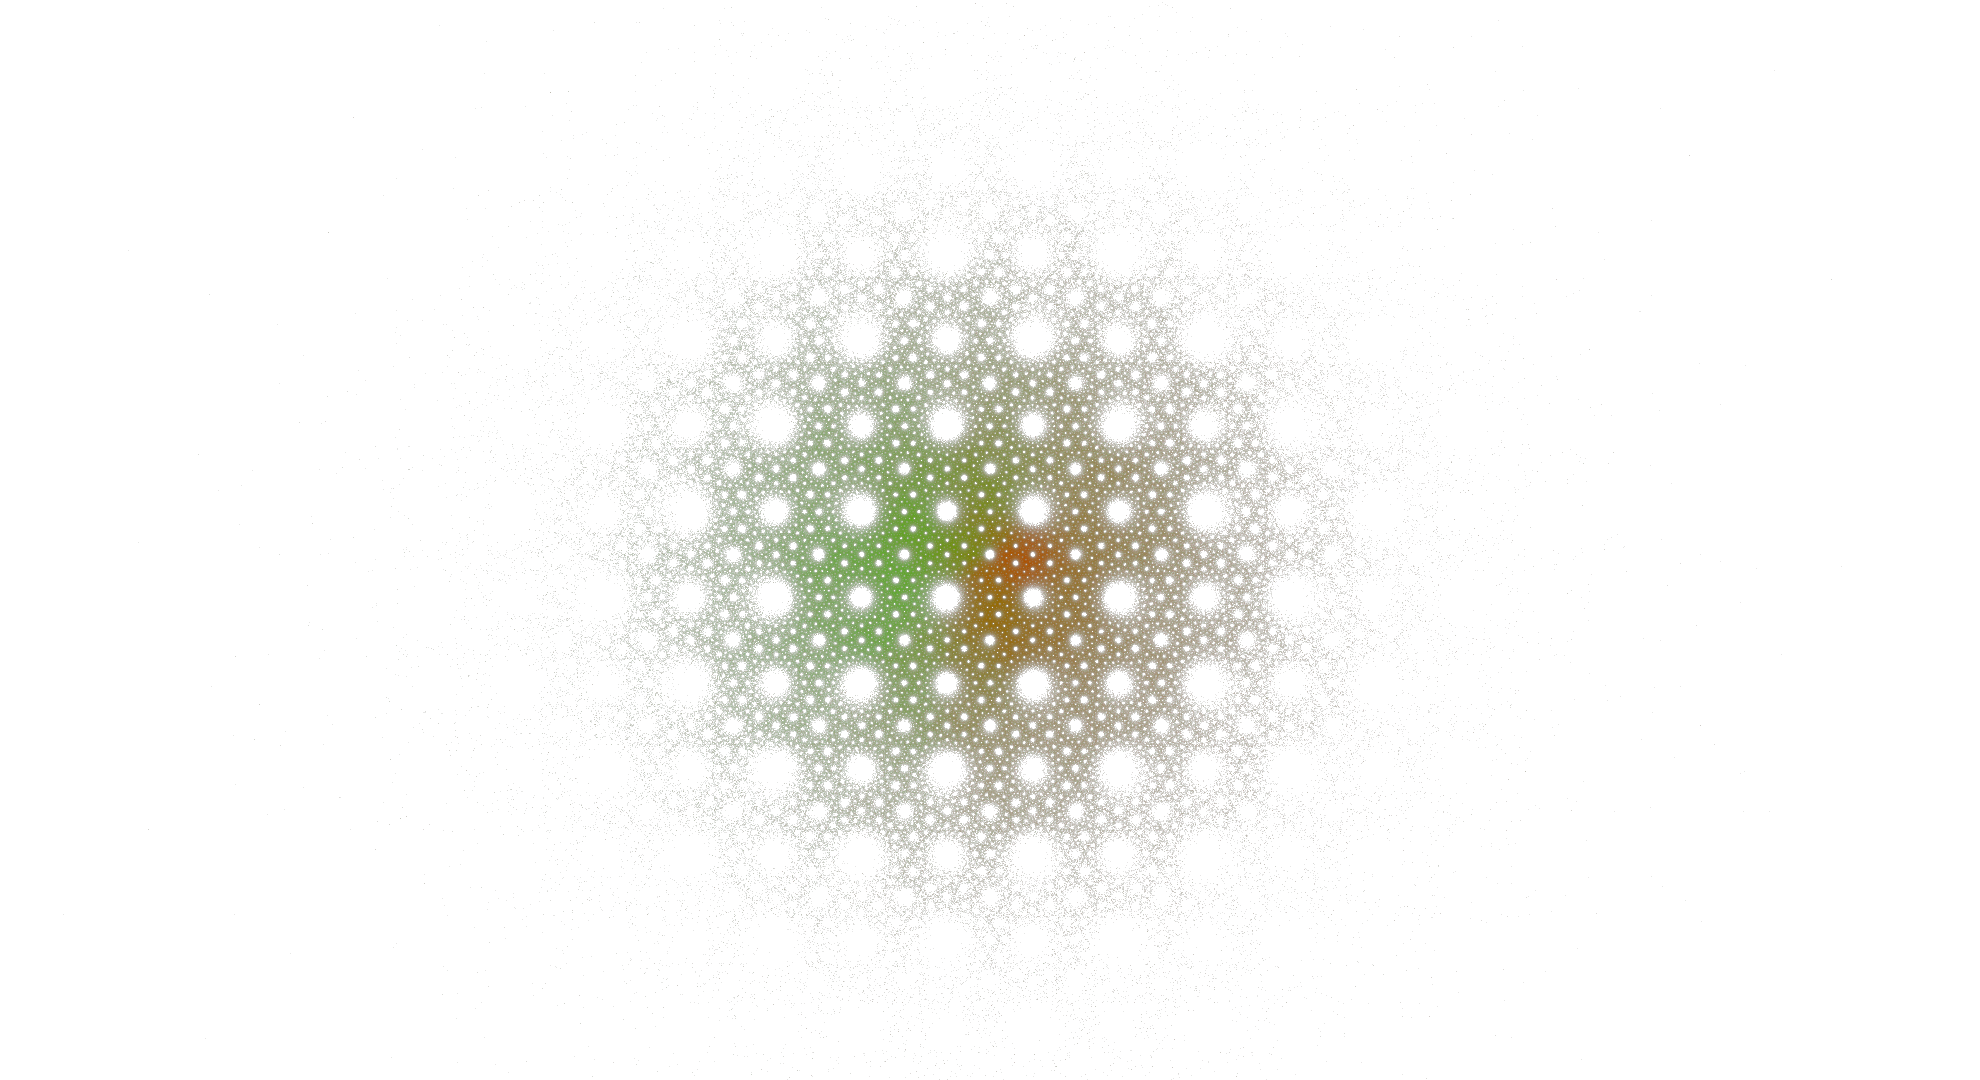
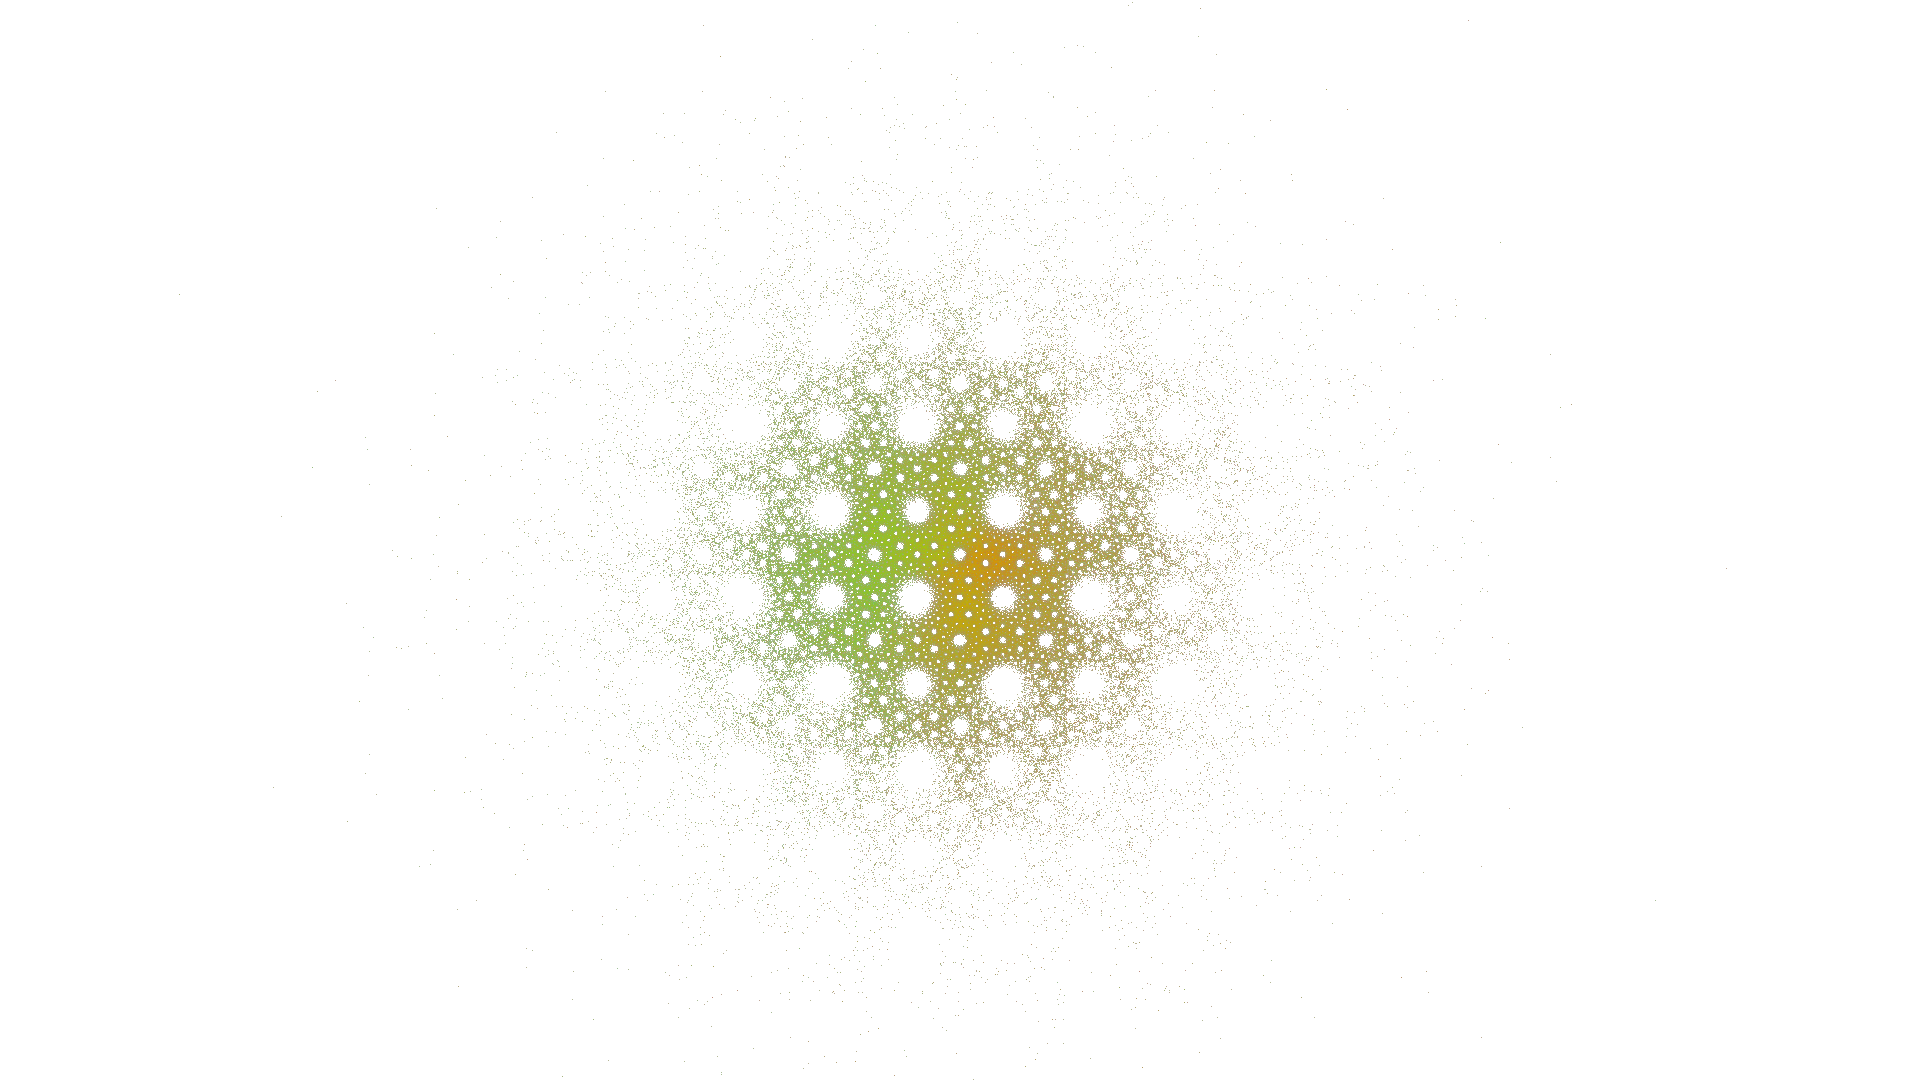
ip

Changed region(s): [[0.2812, 0.1833, 0.6875, 0.8556]]

diff --git a/cpp/render.cpp b/cpp/render.cpp
@@ -13,23 +13,80 @@
 #include "varblend.h"
 
 #include <cmath>
-#include <iostream>
+#include <cstdio>
 
 hoso::flame::Render::Render(uint32 const Width,
                             uint32 const Height)
-   : _Width  {Width },
-     _Height {Height}
+   : _executors {      },
+     _Width     {Width },
+     _Height    {Height}
 {
+   auto const HC = std::thread::hardware_concurrency();
+   auto const NThreads = (HC == 0) ? 2 : HC;
+   _executors.reserve(NThreads);
+
 }
 
 /**
  *
  */
-inline auto hoso::flame::Render::getIndex(uint32 const X,
-                                          uint32 const Y) const -> uint32
+auto hoso::flame::Render::populate(uint32 const JumpNumber) -> Pixel *
 {
-   return X * _Height + Y;
-}
+   Random rand;
+   rand.jump(JumpNumber);
+
+   Point pnt((2.0 * rand.gen<Point::dim_t>()) - 1.0,  // x
+             (2.0 * rand.gen<Point::dim_t>()) - 1.0); // y
+   auto clr = rand.gen<Pixel::dim_t>();
+
+   StrangeAttractor sa;
+   VarBlend vb;
+
+   for (uint i = 0; i < 100; ++i)
+   {
+      auto const Transform_idx = sa.preTransform(pnt, clr);
+      pnt = vb.apply(Transform_idx, pnt);
+      sa.postTransform(pnt, clr);
+   }
+
+   auto minFitPnt = pnt;
+   auto maxFitPnt = pnt;
+   for (uint i = 0; i < 10'000; ++i)
+   {
+      auto const Transform_idx = sa.preTransform(pnt, clr);
+      pnt = vb.apply(Transform_idx, pnt);
+      sa.postTransform(pnt, clr);
+
+           if (pnt.x < minFitPnt.x) { minFitPnt.x = pnt.x; }
+      else if (pnt.x > maxFitPnt.x) { maxFitPnt.x = pnt.x; }
+
+           if (pnt.y < minFitPnt.y) { minFitPnt.y = pnt.y; }
+      else if (pnt.y > maxFitPnt.y) { maxFitPnt.y = pnt.y; }
+   }
+   Fitter const Fit(_Width, _Height, minFitPnt, maxFitPnt);
+
+   ColorScheme cs;
+
+   constexpr uint64 NIters = 1'000'000ull;
+   for (uint64 i = 0; i < NIters; ++i)
+   {
+      auto const Transform_idx = sa.preTransform(pnt, clr);
+      pnt = vb.apply(Transform_idx, pnt);
+      sa.postTransform(pnt, clr);
+
+      auto const FitPnt = Fit.apply(pnt);
+
+      auto const X =           static_cast<int32>(FitPnt.x);
+      auto const Y = _Height - static_cast<int32>(FitPnt.y);
+
+      if (X >= 0 && X < _Width &&
+          Y >= 0 && Y < _Height)
+      {
+         auto const Idx = Y * _Width + X;
+         histo_Ptr[Idx]   += cs.apply(clr);
+         histo_Ptr[Idx].a += 1.0;
+      }
+   }
 
 /**
  *
@@ -60,16 +117,17 @@ void hoso::flame::Render::populate(Pixel * const histo_Ptr) const
       pnt = vb.apply(Transform_idx, pnt);
       sa.postTransform(pnt, clr);
 
-      if (pnt.x < minFitPnt.x) { minFitPnt.x = pnt.x; }
-      if (pnt.x > maxFitPnt.x) { maxFitPnt.x = pnt.x; }
-      if (pnt.y < minFitPnt.y) { minFitPnt.y = pnt.y; }
-      if (pnt.y > maxFitPnt.y) { maxFitPnt.y = pnt.y; }
+           if (pnt.x < minFitPnt.x) { minFitPnt.x = pnt.x; }
+      else if (pnt.x > maxFitPnt.x) { maxFitPnt.x = pnt.x; }
+
+           if (pnt.y < minFitPnt.y) { minFitPnt.y = pnt.y; }
+      else if (pnt.y > maxFitPnt.y) { maxFitPnt.y = pnt.y; }
    }
    Fitter const Fit(_Width, _Height, minFitPnt, maxFitPnt);
 
    ColorScheme cs;
 
-   constexpr uint64 NIters = 10'000'000ull;
+   constexpr uint64 NIters = 1'000'000ull;
    for (uint64 i = 0; i < NIters; ++i)
    {
       auto const Transform_idx = sa.preTransform(pnt, clr);
@@ -84,8 +142,9 @@ void hoso::flame::Render::populate(Pixel * const histo_Ptr) const
       if (X >= 0 && X < _Width &&
           Y >= 0 && Y < _Height)
       {
-         histo_Ptr[getIndex(X, Y)]   += cs.apply(clr);
-         histo_Ptr[getIndex(X, Y)].a += 1.0;
+         auto const Idx = Y * _Width + X;
+         histo_Ptr[Idx]   += cs.apply(clr);
+         histo_Ptr[Idx].a += 1.0;
       }
    }
 

diff --git a/cpp/strangeattractor.cpp b/cpp/strangeattractor.cpp
@@ -2,39 +2,30 @@
  * @author Forrest Jablonski
  */
 
+#include "random.h"
 #include "strangeattractor.h"
 
 /**
  *
  */
-hoso::flame::StrangeAttractor::StrangeAttractor(void)
-   : _rand {}
-{
-}
-
-/**
- *
- */
 auto hoso::flame::StrangeAttractor::preTransform(Point        & pnt_ref,
-                                                 Pixel::dim_t & clr_ref) -> uint32
+                                                 Pixel::dim_t & clr_ref,
+                                                 Random       & rand_ref) const -> uint32
 {
-   constexpr IASMatrix Mat0{ 0.5, -0.5, 0.5,  0.5, 0.0, 0.0, 0.0, 0.5};
-   constexpr IASMatrix Mat1{-0.5, -0.5, 0.5, -0.5, 1.0, 0.0, 1.0, 0.5};
+   constexpr IASMatrix Mats[] = {
+      {.A =  0.5, .B = -0.5, .C = 0.5, .D =  0.5, .E = 0.0, .F = 0.0, .Clr = 0.0, .Prob = 0.5},
+      {.A = -0.5, .B = -0.5, .C = 0.5, .D = -0.5, .E = 1.0, .F = 0.0, .Clr = 1.0, .Prob = 0.5}
+   };
 
-   if (_rand.gen<float64>() < Mat0.Prob)
-   {
-      pnt_ref = Point(Mat0.A * pnt_ref.x + Mat0.B * pnt_ref.y + Mat0.E,
-                      Mat0.C * pnt_ref.x + Mat0.D * pnt_ref.y + Mat0.F);
-      clr_ref   = 0.5 * (clr_ref + Mat0.Clr);
-      return 0;
-   }
-   else
-   {
-      pnt_ref = Point(Mat1.A * pnt_ref.x + Mat1.B * pnt_ref.y + Mat1.E,
-                      Mat1.C * pnt_ref.x + Mat1.D * pnt_ref.y + Mat1.F);
-      clr_ref   = 0.5 * (clr_ref + Mat1.Clr);
-      return 1;
-   }
+   auto   const R   = rand_ref.gen<decltype(IASMatrix::Prob)>();
+   uint32 const Idx = (R < Mats[0].Prob) ? 0 : 1;
+
+   pnt_ref = Point(Mats[Idx].A * pnt_ref.x + Mats[Idx].B * pnt_ref.y + Mats[Idx].E,
+                   Mats[Idx].C * pnt_ref.x + Mats[Idx].D * pnt_ref.y + Mats[Idx].F);
+
+   clr_ref = 0.5 * (clr_ref + Mats[Idx].Clr);
+
+   return Idx;
 
    // constexpr IASMatrix Mat0{0.14,  0.01,  0.0 , 0.51, -0.08, -1.31, 0.0/3.0, 0.25};
    // constexpr IASMatrix Mat1{0.43,  0.52, -0.45, 0.5 ,  1.49, -0.75, 1.0/3.0, 0.25};
@@ -77,6 +68,7 @@ auto hoso::flame::StrangeAttractor::preTransform(Point        & pnt_ref,
  *
  */
 void hoso::flame::StrangeAttractor::postTransform(Point        & pnt_ref,
-                                                  Pixel::dim_t & clr_ref)
+                                                  Pixel::dim_t & clr_ref,
+                                                  Random       & rand_ref) const
 {
 }

diff --git a/cpp/flame.cpp b/cpp/flame.cpp
@@ -23,6 +23,13 @@ int main(const int argc, const char* const* const argv)
    constexpr uint32 Width  = 1920;
    constexpr uint32 Height = 1080;
 
+   /*
+    *              Width
+    *           x0 x1 x2 x3 x4 x5
+    *        y0
+    * Height y1
+    *        y2
+    */
    Pixel * const histo_Ptr = new Pixel[Width * Height];
 
    Render rend(Width, Height);
@@ -35,14 +42,14 @@ int main(const int argc, const char* const* const argv)
       for (uint x = 0; x < Width; ++x)
       {
          // TODO I don't think I've done this correctly
-         auto const & pxl = histo_Ptr[x * Height + y];
+         auto const & pxl = histo_Ptr[y * Width + x];
 
          auto const R = static_cast<uint8>((pxl.r * 255.0) + 0.5);
          auto const G = static_cast<uint8>((pxl.g * 255.0) + 0.5);
          auto const B = static_cast<uint8>((pxl.b * 255.0) + 0.5);
          auto const A = static_cast<uint8>((pxl.a * 255.0) + 0.5);
 
-         image[y][x] = png::rgba_pixel(r, g, b, a);
+         image[y][x] = png::rgba_pixel(R, G, B, A);
       }
    }
 

diff --git a/cpp/strangeattractor.h b/cpp/strangeattractor.h
@@ -7,7 +7,6 @@
 #include "hoso.h"
 #include "point.h"
 #include "pixel.h"
-#include "random.h"
 
 namespace hoso::flame
 {
@@ -18,17 +17,17 @@ namespace hoso::flame
 class StrangeAttractor
 {
 public:
-   explicit StrangeAttractor(void);
+   explicit StrangeAttractor(void) = default;
 
-   uint32 preTransform(Point        & pnt_ref,
-                       Pixel::dim_t & clr_ref);
+   uint32 preTransform(      Point        & pnt_ref,
+                             Pixel::dim_t & clr_ref,
+                       class Random       & rand_ref) const;
 
-   void postTransform (Point        & pnt_ref,
-                       Pixel::dim_t & clr_ref);
+   void postTransform (      Point        & pnt_ref,
+                             Pixel::dim_t & clr_ref,
+                       class Random       & rand_ref) const;
 
 private:
-   Random _rand;
-
    /**
     * Do not reorder
     */

diff --git a/cpp/render.h b/cpp/render.h
@@ -4,7 +4,13 @@
 
 #pragma once
 
+#include "colorscheme.h"
 #include "hoso.h"
+#include "strangeattractor.h"
+#include "varblend.h"
+
+#include <thread>
+#include <vector>
 
 namespace hoso::flame
 {
@@ -21,8 +27,11 @@ public:
    void populate(class Pixel * const histo_Ptr) const;
 
 private:
-   inline uint32 getIndex(uint32 const X,
-                          uint32 const Y) const;
+   std::vector<std::thread> _executors; // coming for their baby executes I'm sure
+
+   ColorScheme      const _Cs;
+   StrangeAttractor const _Sa;
+   VarBlend         const _Vb;
 
    uint32 const _Width;
    uint32 const _Height;
